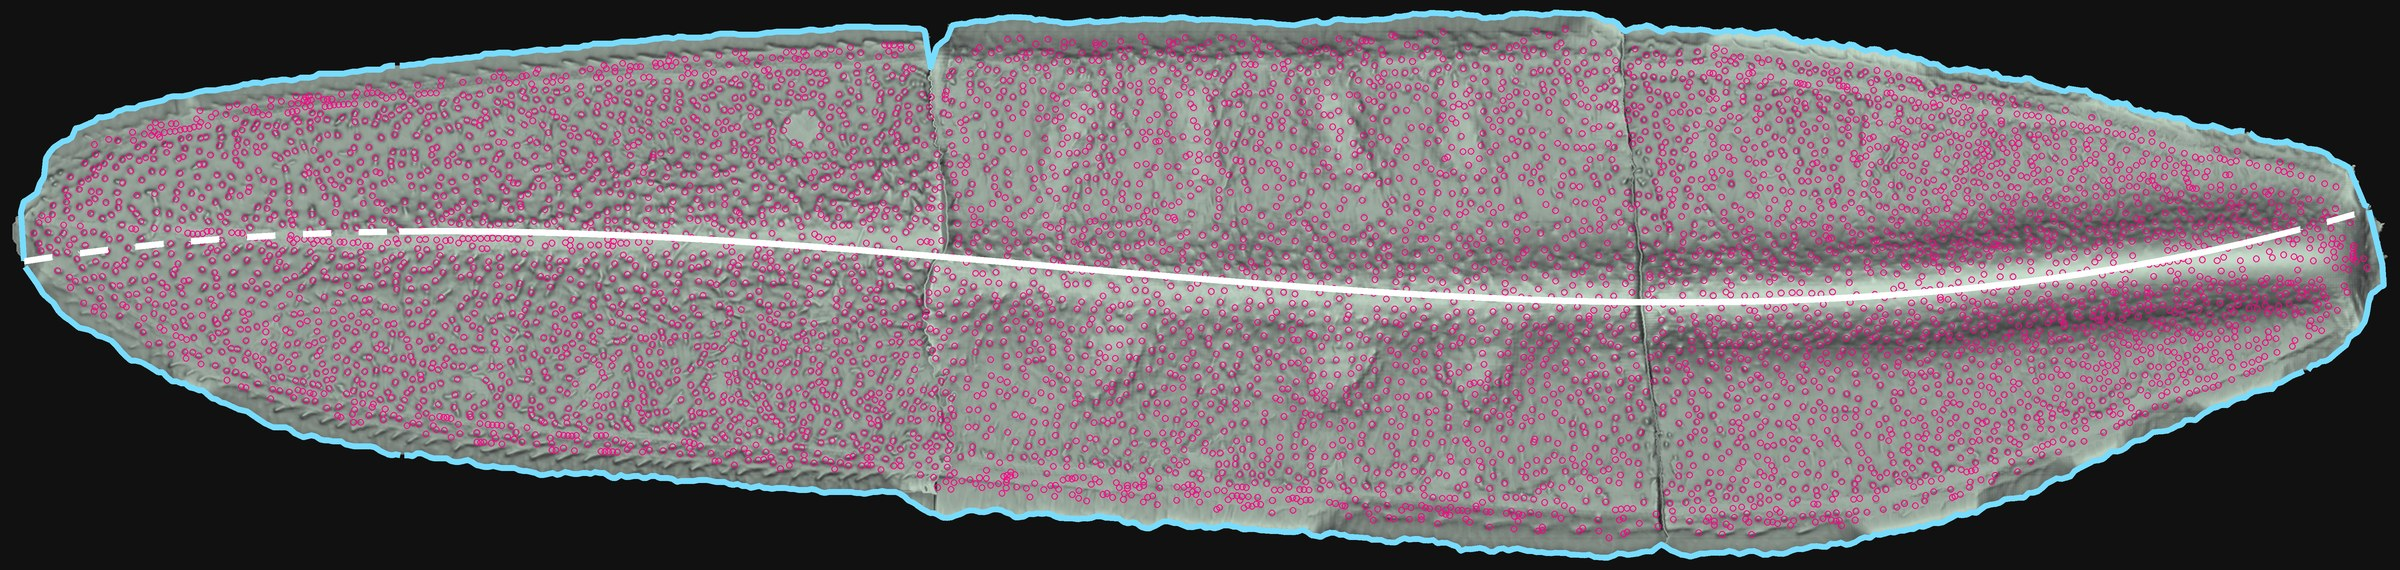
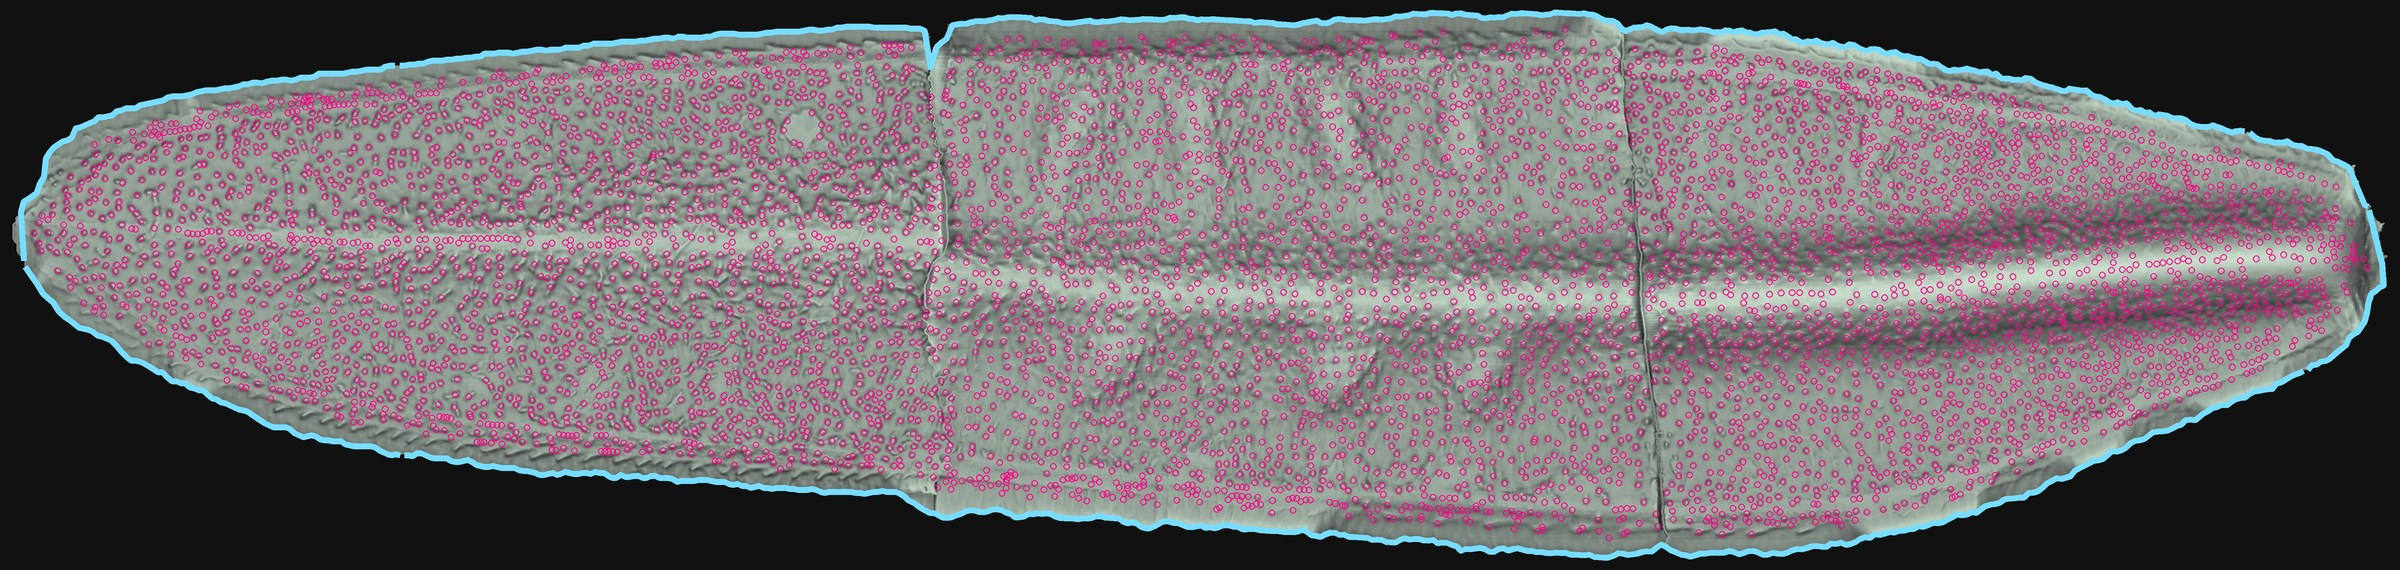
Publish v73: seagrass leaf zoom and pan, no stem line

diff --git a/index.html b/index.html
@@ -14,6 +14,8 @@ research setups.">
 <link rel="stylesheet" href="style.css">
 </head>
 <body>
+<!-- v73: v71 plus the seagrass leaf without the stem line (detected images re-rendered). -->
+<!-- v71: v70 plus zoom and pan on the seagrass leaf slider (4800 px pair loaded on first zoom). -->
 <!-- v70: v69 plus the whole stitched seagrass leaf slider (v67/v68), trichomes from the tool defaults, shaded from above. -->
 <!-- v66: orbit scene underwater in the slider. -->
 <!-- v65: leaf scan moved to its own category, Tactile imaging. v64: leaf-scan figure full width (includes uncommitted v63 pink chart outlines). v62: seagrass trichome detection in leaf scans. v61: chart caption simpler (no drag hint, no Haifa). v60: duck caption names Hraun á Skaga, no sex labels. v59: NTNU and DTU logos removed (their brand rules). v58: codes start with Reed&ndash;Solomon (linear-code intro dropped), shorter notes; shorter duck caption. v57: Renfert logo removed. v56: logo order NTNU, DTU, COLOR Lab, Renfert, Hraun. v55: eider video v3 (stable tracks, flying raven). v54: logo row (COLOR Lab, Renfert, NTNU, DTU, Hraun á Skaga) below the sections. v53: no PhD, DTU in AG codes. v52: Hamming codes removed (RS and AG only). v51: codes: intro first again, each code set boxed with its generator matrix, Hamming code set. v50: canonical form. v49: codes intro text below its equation. v48: gap above Hamming heading. v47: error-correcting codes without parity-check matrices. v45: phone: photo and name left-aligned, gap below header. v44: duck video first in Computer vision, labels 34 px. v43: phone: title on one line, name below photo. v42: rows animate on phones with reduce-motion on (shorter). v41: eider video with raven, male/female labels, larger labels without score. v40: Popov pivots underlined again (v36). v39: round portrait again, Consulting capitalized. v38: boxed Popov pivots. v37: square portrait. v36: 3x3 Popov matrix, pivots underlined. v35: portrait in header. v27: black sky in D65. v26: v25 plus the new slider scene from v24. v25: spectral imaging section (interactive ColorChecker spectra). v23: algorithms (Popov form) above codes (linear, Hamming, RS, Hermitian). v22: ocean optics folded into computer vision as synthetic data, no equation. v21: Algorithms, Error-correcting codes. v20: Mitsuba 3-way slider from v16, renamed categories, agent tools, tighter spacing. v19: category labels only. v17: lead sentence, mathematical modeling. v15: no section label. v14: animated expand, smoother feel. v13: collapsible areas of work. v12: before/after slider on chart photo. v11: wider chart photo, white outlines. v10: trimmed to header and visuals; to be built up again. Equations are pre-rendered with KaTeX 0.16 from
@@ -97,12 +99,13 @@ research setups.">
  <details class="cat">
   <summary><span class="t">Tactile imaging</span></summary>
   <div class="body">
-  <figure class="wide compare" aria-label="Seagrass leaf scan; slider compares it with and without the detected trichomes">
-  <img src="assets/seagrass-leaf-plain.jpg?v=70" width="1200" height="285" loading="lazy" alt="Height-shaded scan of a whole seagrass leaf, stitched from three tactile scans">
-  <div class="over"><img src="assets/seagrass-leaf-detected.jpg?v=70" width="1200" height="285" loading="lazy" alt="The same leaf with its borders outlined, the fitted midline drawn in white, and each detected trichome circled in pink"></div>
+  <figure class="wide compare zf" aria-label="Seagrass leaf scan; slider compares it with and without the detected trichomes">
+  <img src="assets/seagrass-leaf-plain.jpg?v=71" data-hi="assets/seagrass-leaf-plain-4800.jpg?v=71" width="1200" height="285" loading="lazy" alt="Height-shaded scan of a whole seagrass leaf, stitched from three tactile scans">
+  <div class="over"><img src="assets/seagrass-leaf-detected.jpg?v=73" data-hi="assets/seagrass-leaf-detected-4800.jpg?v=73" width="1200" height="285" loading="lazy" alt="The same leaf with its borders outlined and each detected trichome circled in pink"></div>
   <span class="handle" aria-hidden="true"></span>
   <input type="range" min="0" max="100" value="50" aria-label="Compare with and without detections">
- </figure>
+  <div class="zb"><button type="button" aria-label="Zoom in">+</button><button type="button" aria-label="Zoom out">&minus;</button><button type="button" class="zr" aria-label="Reset zoom">reset</button></div>
+  </figure>
   <p class="note">Trichomes (tiny hairs) detected on a whole seagrass leaf, stitched from three tactile GelSight scans.</p>
   </div>
  </details>
@@ -279,6 +282,74 @@ const fit=()=>{h.style.fontSize='';if(!m.matches)return;
  const w=h.parentElement.clientWidth,s=parseFloat(getComputedStyle(h).fontSize);
  if(h.scrollWidth>w)h.style.fontSize=Math.floor(s*w/h.scrollWidth*0.98)+'px';};
 fit();addEventListener('resize',fit);document.fonts&&document.fonts.ready.then(fit);})();
+</script>
+<script>
+/* Zoom + pan for the seagrass compare figure: one shared transform for both layers. */
+(()=>{const f=document.querySelector('.compare.zf');if(!f)return;
+const imgs=[...f.querySelectorAll('img')],inp=f.querySelector('input'),
+ [bin,bout,brst]=f.querySelectorAll('.zb button'),MAX=8;
+let s=1,tx=0,ty=0,hi=false,smoothT=0;
+const R=()=>f.getBoundingClientRect();
+function clamp(){const r=R();tx=Math.min(0,Math.max(r.width-r.width*s,tx));ty=Math.min(0,Math.max(r.height-r.height*s,ty));}
+function apply(smooth){
+ if(smooth){f.classList.add('smooth');clearTimeout(smoothT);smoothT=setTimeout(()=>f.classList.remove('smooth'),320);}
+ clamp();const t=s===1?'':`translate(${tx}px,${ty}px) scale(${s})`;
+ imgs.forEach(i=>i.style.transform=t);
+ f.classList.toggle('zoomed',s>1.001);bin.disabled=s>=MAX-.001;bout.disabled=s<=1.001;brst.disabled=s<=1.001;
+ if(s>1&&!hi)load();}
+function load(){hi=true;imgs.forEach(i=>{const u=i.dataset.hi;if(!u)return;const n=new Image();n.src=u;
+ n.decode().then(()=>{i.src=u;}).catch(()=>{});});}
+function zoomAt(k,px,py,smooth){const n=Math.min(MAX,Math.max(1,s*k));k=n/s;
+ tx=px-(px-tx)*k;ty=py-(py-ty)*k;s=n;if(s<1.001){s=1;tx=ty=0;}apply(smooth);}
+const rel=e=>{const r=R();return[e.clientX-r.left,e.clientY-r.top,r];};
+function setSlide(x,w){const v=Math.min(100,Math.max(0,x/w*100));inp.value=v;inp.dispatchEvent(new Event('input',{bubbles:true}));}
+const divX=()=>R().width*inp.value/100;
+bin.onclick=()=>{const r=R();zoomAt(1.6,r.width/2,r.height/2,true);};
+bout.onclick=()=>{const r=R();zoomAt(1/1.6,r.width/2,r.height/2,true);};
+brst.onclick=()=>{s=1;tx=ty=0;apply(true);};
+f.querySelector('.zb').addEventListener('pointerdown',e=>e.stopPropagation());
+f.addEventListener('wheel',e=>{e.preventDefault();const[x,y]=rel(e);
+ const d=e.deltaMode===1?e.deltaY*16:e.deltaY;zoomAt(Math.exp(-d*(e.ctrlKey?.01:.0022)),x,y,false);},{passive:false});
+const P=new Map();let mode=null,pinch=null,down=null,lastTap=null,tapT=0;
+f.addEventListener('pointerdown',e=>{if(e.button>0)return;
+ P.set(e.pointerId,{x:e.clientX,y:e.clientY});f.setPointerCapture(e.pointerId);
+ if(P.size===2){mode='pinch';cancelTap();const[a,b]=[...P.values()];
+  pinch={d:Math.hypot(a.x-b.x,a.y-b.y)||1};return;}
+ const[x,y,r]=rel(e);down={x:e.clientX,y:e.clientY,t:performance.now(),moved:false};
+ if(Math.abs(x-divX())<26){mode='slide';setSlide(x,r.width);}
+ else mode=s>1.001?'pan':'tap';
+ if(mode==='pan')f.classList.add('panning');});
+f.addEventListener('pointermove',e=>{const p=P.get(e.pointerId);if(!p)return;
+ const px=p.x,py=p.y;p.x=e.clientX;p.y=e.clientY;
+ if(mode==='pinch'&&P.size>=2){const[a,b]=[...P.values()],d=Math.hypot(a.x-b.x,a.y-b.y)||1,r=R();
+  const mx=(a.x+b.x)/2-r.left,my=(a.y+b.y)/2-r.top;
+  const pmx=mx-((e.clientX-px)/2),pmy=my-((e.clientY-py)/2);
+  tx+=mx-pmx;ty+=my-pmy;zoomAt(d/pinch.d,mx,my,false);pinch.d=d;return;}
+ if(!down)return;const[x,,r]=rel(e);
+ if(!down.moved&&Math.hypot(e.clientX-down.x,e.clientY-down.y)>5){down.moved=true;
+  if(mode==='tap'){cancelTap();
+   if(e.pointerType==='touch'&&Math.abs(e.clientY-down.y)>Math.abs(e.clientX-down.x)){mode=null;down=null;return;}
+   mode='slide';}}
+ if(mode==='slide')setSlide(x,r.width);
+ else if(mode==='pan'){tx+=e.clientX-px;ty+=e.clientY-py;apply(false);}});
+function cancelTap(){clearTimeout(tapT);lastTap=null;}
+function end(e){if(!P.has(e.pointerId))return;P.delete(e.pointerId);
+ f.classList.remove('panning');
+ if(mode==='pinch'){if(P.size<2){mode=null;pinch=null;down=null;}return;}
+ const d=down;down=null;const m=mode;mode=null;
+ if(!d||d.moved||e.type==='pointercancel'||(m!=='tap'&&m!=='pan'))return;
+ if(performance.now()-d.t>350)return;
+ const[x,y,r]=rel(e);
+ if(lastTap&&Math.hypot(e.clientX-lastTap.x,e.clientY-lastTap.y)<40){cancelTap();
+  if(s>1.001){s=1;tx=ty=0;apply(true);}else zoomAt(4,x,y,true);return;}
+ lastTap={x:e.clientX,y:e.clientY};clearTimeout(tapT);
+ tapT=setTimeout(()=>{lastTap=null;if(s<=1.001)setSlide(x,r.width);},300);}
+f.addEventListener('pointerup',end);f.addEventListener('pointercancel',end);
+f.addEventListener('touchstart',e=>{if(e.touches.length>1)e.preventDefault();},{passive:false});
+f.addEventListener('touchmove',e=>{if(e.touches.length>1||s>1.001)e.preventDefault();},{passive:false});
+f.addEventListener('dragstart',e=>e.preventDefault());
+addEventListener('resize',()=>apply(false));
+})();
 </script>
 </body>
 </html>

diff --git a/style.css b/style.css
@@ -369,3 +369,18 @@ html{overflow-y:scroll}
 @media (max-width:560px){.logos{gap:24px 32px}.logos .sq{height:52px}
   .logos .rf{height:40px}.logos .nt{height:28px}.logos .dt{height:46px}
   .logos .hr{height:18px}}
+
+/* v71 zoomable compare figure (seagrass leaf): both layers share one transform */
+.compare.zf{overflow:hidden;border-radius:var(--r1);touch-action:pan-y;cursor:ew-resize}
+.compare.zf.zoomed{touch-action:none;cursor:grab}
+.compare.zf.zoomed.panning{cursor:grabbing}
+.compare.zf img{border-radius:0;transform-origin:0 0;will-change:transform}
+.compare.zf.smooth img{transition:transform .28s cubic-bezier(.22,.61,.36,1)}
+.compare.zf input{pointer-events:none}
+.zf .zb{position:absolute;right:8px;bottom:8px;display:flex;gap:4px;z-index:3}
+.zf .zb button{font:inherit;font-size:15px;line-height:1;min-width:30px;height:30px;padding:0 8px;
+  border:0;border-radius:6px;background:rgba(0,0,0,.55);color:#fff;cursor:pointer;opacity:.7;
+  transition:opacity .2s,color .2s,background .2s}
+.zf .zb button:hover,.zf .zb button:focus-visible{opacity:1;color:#ff0088;outline:none}
+.zf .zb button:disabled{opacity:.3;cursor:default;color:#fff}
+.zf .zb .zr{font-size:12px}
